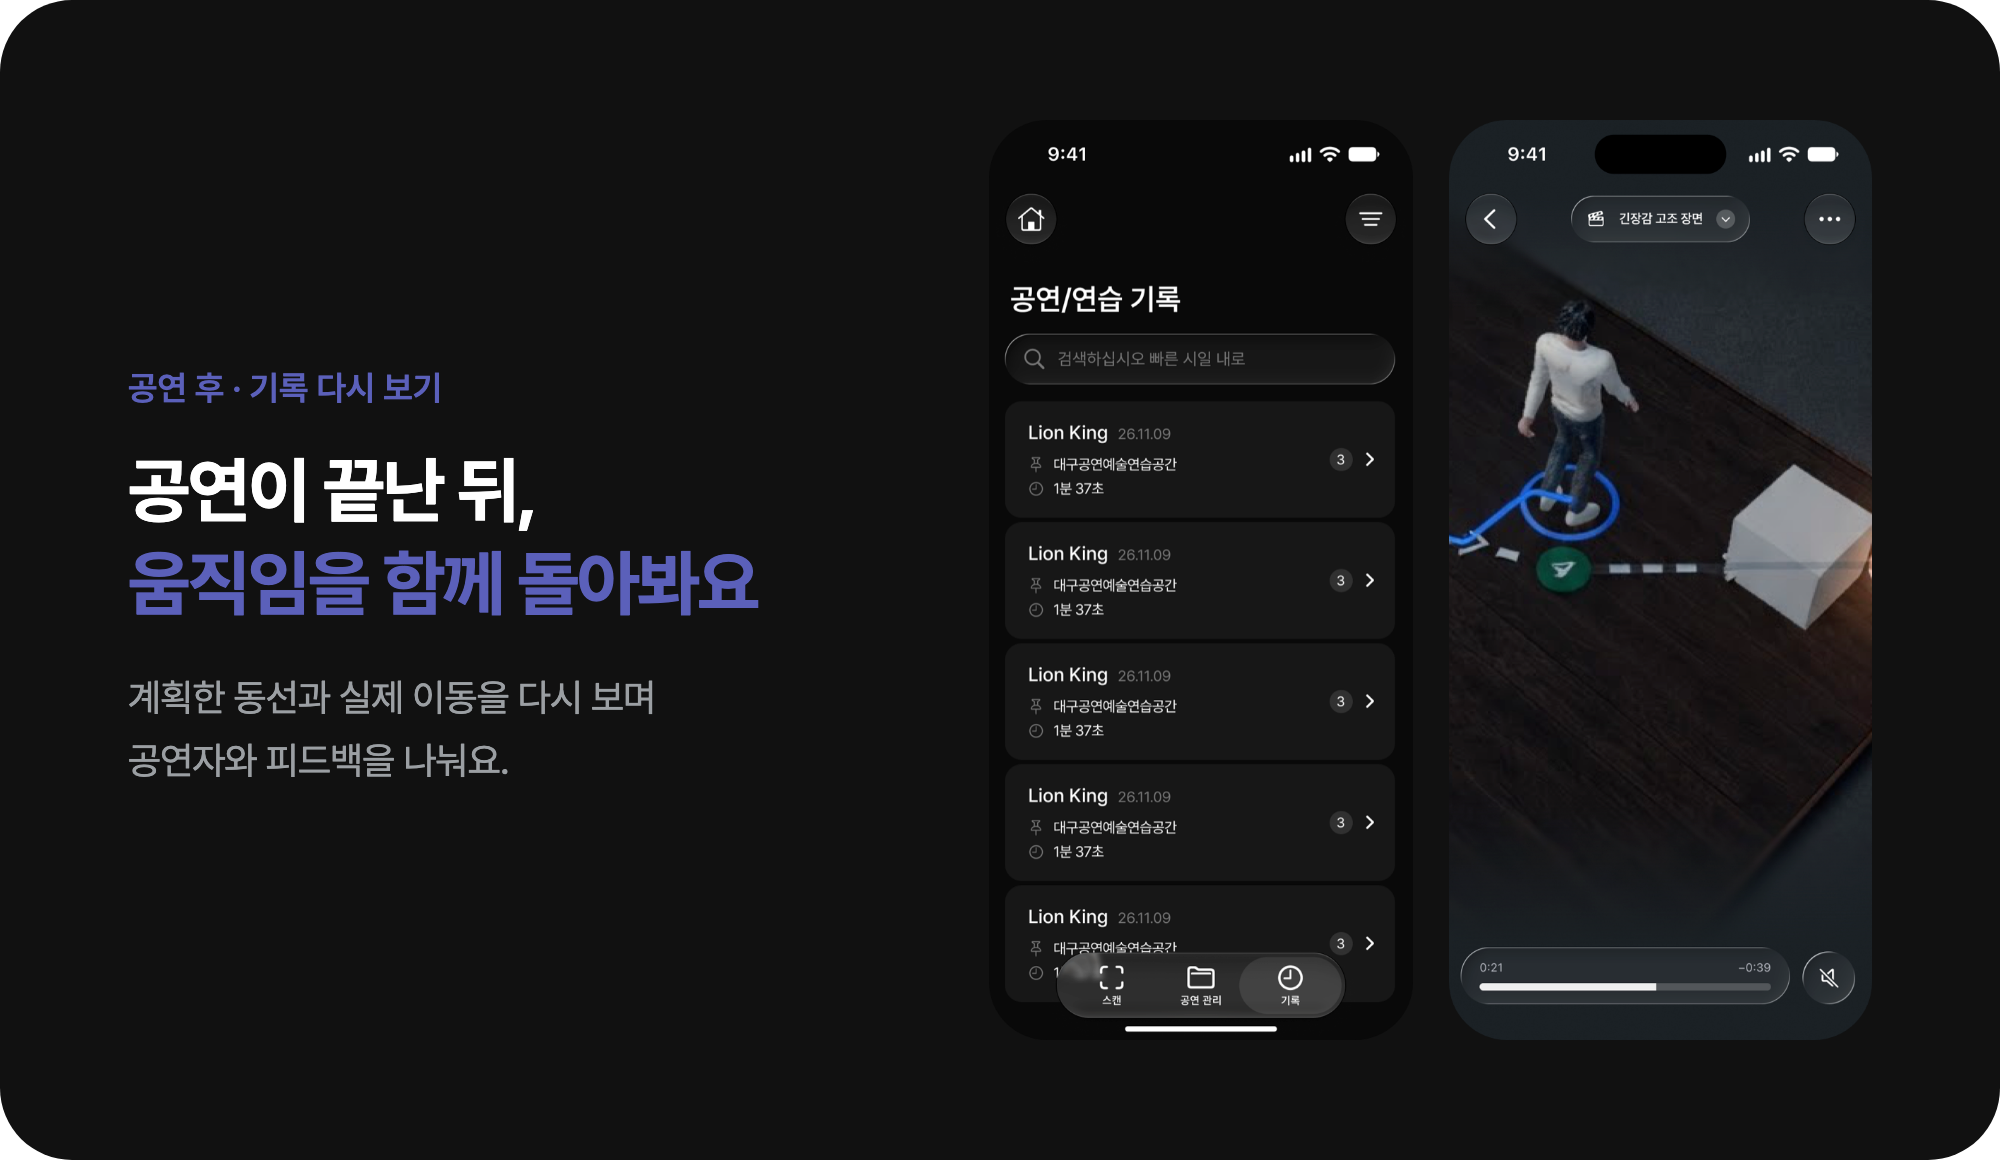
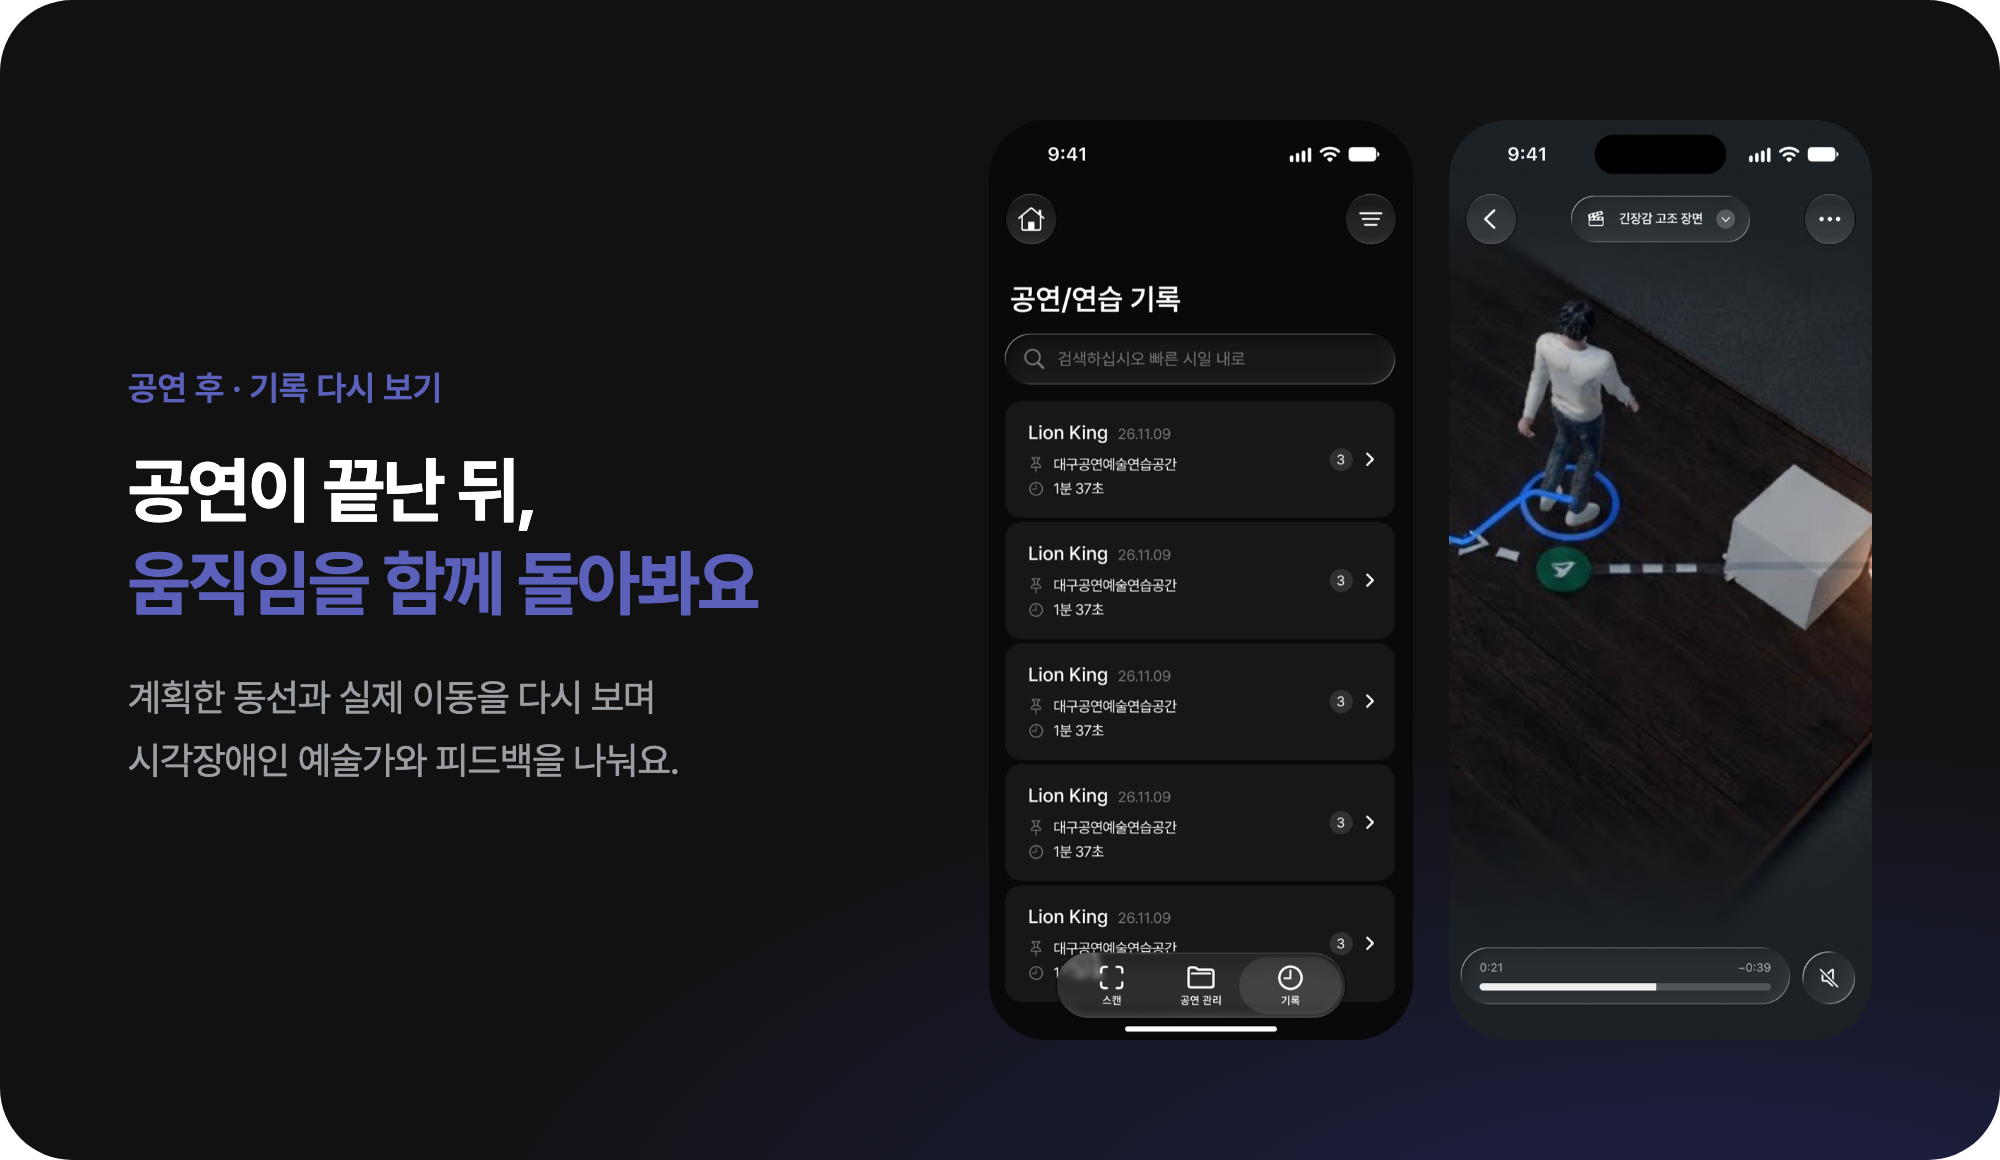
docs: README 사용자 이름을 시각장애인 예술가로 통일하고 모든 카드에 빛을 깐다
README와 카드 이미지에서 같은 사람을 「공연자」 「시각장애 공연자」로 섞어 불렀다. 앱의 역할 선택 화면도 「시각 장애 예술가」라고 부르므로, 사용자가 정한 「시각장애인 예술가」 하나로 맞췄다.

- src/cards.html: 첫 카드 소개 문구, 두 역할 카드 라벨, 음성 · 안내 카드 라벨, 기록 카드 설명을 바꿨다.
- src/cards.html: 첫 카드의 App Store 이미지에는 옛 문구가 그림으로 박혀 있다. 그 자리는 위쪽이 단색(#111)이어서 같은 색 칸으로 덮고 새 문구를 글자로 다시 얹었다. 굵기와 줄 나눔은 원래 이미지를 따랐다.
- src/cards.html: 첫 카드에만 있던 아래쪽 보라 빛을 모든 카드에 깔았다. 기능 카드는 앱 화면이 있는 쪽 아래, 두 역할 · 팀 카드는 가운데 아래에서 퍼진다.
- README.md: 이미지 alt와 폴더 구조 설명의 표기를 같은 이름으로 맞췄다.
- card-*.png 9장을 다시 찍었다.

Changed region(s): [[0.496, 0.8069, 1.0, 1.0], [0.062, 0.6207, 0.341, 0.6828]]

diff --git a/.github/assets/readme/src/cards.html b/.github/assets/readme/src/cards.html
@@ -17,12 +17,15 @@
   @font-face { font-family: P; font-weight: 600; src: url("../../../../Hear-I-am/Resources/Fonts/Pretendard-SemiBold.otf"); }
   @font-face { font-family: P; font-weight: 700; src: url("../../../../Hear-I-am/Resources/Fonts/Pretendard-Bold.otf"); }
   @font-face { font-family: S; font-weight: 200; src: url("../../../../Hear-I-am/Resources/Fonts/SUIT-ExtraLight.otf"); }
-  :root { --bg: #111111; --surface: #1b1c1d; --line: #262829; --text: #ffffff; --sub: #9b9fa3; --accent: #5b60ba; }
+  :root { --bg: #111111; --surface: #1b1c1d; --line: #262829; --text: #ffffff; --sub: #9b9fa3; --accent: #5b60ba; --glow: #20224a; }
   * { box-sizing: border-box; margin: 0; }
   html, body { background: transparent; }
   body { font-family: P, -apple-system, sans-serif; color: var(--text); letter-spacing: -0.02em; }
   section { display: none; width: 1000px; border-radius: 36px; background: var(--bg); overflow: hidden; position: relative; }
   section.on { display: flex; }
+  section { background: radial-gradient(120% 90% at 50% 125%, var(--glow) 0%, var(--bg) 55%); }
+  .feature { background: radial-gradient(120% 90% at 15% 110%, var(--glow) 0%, var(--bg) 55%); }
+  .feature.flip, #hero { background: radial-gradient(120% 90% at 85% 110%, var(--glow) 0%, var(--bg) 55%); }
   .label { font-size: 17px; font-weight: 600; color: var(--accent); letter-spacing: 0; }
   h2 { font-size: 40px; line-height: 1.3; font-weight: 700; letter-spacing: -0.03em; }
   h2 em { font-style: normal; color: var(--accent); }
@@ -31,8 +34,7 @@
   .phone.wide { height: auto; width: 460px; }
 
   /* hero */
-  #hero { height: 620px; padding: 0 34px 0 72px; align-items: center; gap: 30px;
-          background: radial-gradient(120% 90% at 85% 110%, #20224a 0%, var(--bg) 55%); }
+  #hero { height: 620px; padding: 0 34px 0 72px; align-items: center; gap: 30px; }
   #hero .copy { width: 390px; flex: none; display: flex; flex-direction: column; gap: 22px; }
   #hero .icon { width: 96px; height: 96px; }
   #hero .name { font-family: S; font-weight: 200; font-size: 64px; letter-spacing: 0; line-height: 1; }
@@ -40,8 +42,12 @@
   #hero .tag em { font-style: normal; color: var(--accent); }
   #hero .chips { display: flex; gap: 10px; }
   #hero .chip { white-space: nowrap; font-size: 15px; font-weight: 500; color: #d6d9dc; padding: 8px 14px; border-radius: 999px; background: #222426; }
-  #hero .shots { display: flex; border-radius: 26px; overflow: hidden; box-shadow: 0 0 0 1px var(--line); }
+  #hero .shots { position: relative; display: flex; border-radius: 26px; overflow: hidden; box-shadow: 0 0 0 1px var(--line); }
   #hero .shots img { height: 552px; display: block; }
+  /* The App Store images carry their own copy at the top (plain #111 above y=378 of 1311); it is covered and rewritten here so the wording matches. */
+  #hero .over { position: absolute; top: 0; left: 0; right: 0; height: 159px; background: #111111; display: flex; }
+  #hero .over div { flex: 1; padding: 76px 0 0 30px; font-size: 16px; line-height: 27px; color: #b7b7b7; white-space: nowrap; }
+  #hero .over b { color: #fff; font-weight: 700; }
 
   /* roles */
   #roles { height: 400px; padding: 64px 72px; flex-direction: column; gap: 36px; }
@@ -77,18 +83,19 @@
   <div class="copy">
     <img class="icon" src="../icon.png" alt="">
     <div class="name">Hear I am</div>
-    <div class="tag">시각장애 공연자를 위한<br><em>무대 동선 안내 앱</em></div>
+    <div class="tag">시각장애인 예술가를 위한<br><em>무대 동선 안내 앱</em></div>
     <p>음성과 비프음으로<br>방향 · 거리 · 장애물을 알려 줘요.</p>
     <div class="chips"><span class="chip">iOS 17+</span><span class="chip">LiDAR iPhone</span><span class="chip">한국어 · English</span></div>
   </div>
-  <div class="shots"><img src="../hero-1.png" alt=""><img src="../hero-2.png" alt=""></div>
+  <div class="shots"><img src="../hero-1.png" alt=""><img src="../hero-2.png" alt="">
+    <div class="over"><div>시각장애인 예술가가<br>원하는 동선을<br><b>스스로 시도할 수 있도록,</b></div><div>시각장애인 예술가와 조력자<br><b>누구나</b> 사용할 수 있는<br>무대 동선 안내 앱</div></div></div>
 </section>
 
 <section id="roles" data-h="400">
   <h2>두 사람이 <em>함께</em> 써요</h2>
   <div class="pair">
     <div class="role"><span class="label">조력자</span><h3>화면으로 무대를 준비해요</h3><p>공간을 스캔하고, 동선을 저장하고,<br>공연별로 정리해요.</p></div>
-    <div class="role"><span class="label">공연자</span><h3>화면 없이 연습해요</h3><p>「Hear I am」 하고 불러 말로 고르고,<br>소리를 따라 움직여요.</p></div>
+    <div class="role"><span class="label">시각장애인 예술가</span><h3>화면 없이 연습해요</h3><p>「Hear I am」 하고 불러 말로 고르고,<br>소리를 따라 움직여요.</p></div>
   </div>
 </section>
 
@@ -109,17 +116,17 @@
 
 <section id="voice" class="feature tall flip" data-h="580">
   <div class="shot"><img class="phone" src="../home.png" alt=""></div>
-  <div class="copy"><span class="label">공연자 · 무대 사용</span><h2>말로 고르는<br><em>오늘의 공연과 무대</em></h2><p>「Hear I am」 하고 부르면 대화가 열려요.<br>사용할 공연과 무대를 말로 찾고,<br>연습용 또는 실전용을 선택해요.</p></div>
+  <div class="copy"><span class="label">시각장애인 예술가 · 무대 사용</span><h2>말로 고르는<br><em>오늘의 공연과 무대</em></h2><p>「Hear I am」 하고 부르면 대화가 열려요.<br>사용할 공연과 무대를 말로 찾고,<br>연습용 또는 실전용을 선택해요.</p></div>
 </section>
 
 <section id="guide" class="feature tall" data-h="580">
   <div class="shot"><img class="phone" src="../guide.png" alt=""></div>
-  <div class="copy"><span class="label">공연자 · 무대 사용</span><h2>방향부터 도착까지,<br><em>소리로 안내받아요</em></h2><p>허리에 찬 iPhone이 현재 위치와 방향에 맞춰<br>음성과 비프음으로 다음 지점을 안내해요.</p></div>
+  <div class="copy"><span class="label">시각장애인 예술가 · 무대 사용</span><h2>방향부터 도착까지,<br><em>소리로 안내받아요</em></h2><p>허리에 찬 iPhone이 현재 위치와 방향에 맞춰<br>음성과 비프음으로 다음 지점을 안내해요.</p></div>
 </section>
 
 <section id="records" class="feature tall flip" data-h="580">
   <div class="shot"><img class="phone" src="../records.png" alt=""><img class="phone" src="../replay.png" alt=""></div>
-  <div class="copy"><span class="label">공연 후 · 기록 다시 보기</span><h2>공연이 끝난 뒤,<br><em>움직임을 함께 돌아봐요</em></h2><p>계획한 동선과 실제 이동을 다시 보며<br>공연자와 피드백을 나눠요.</p></div>
+  <div class="copy"><span class="label">공연 후 · 기록 다시 보기</span><h2>공연이 끝난 뒤,<br><em>움직임을 함께 돌아봐요</em></h2><p>계획한 동선과 실제 이동을 다시 보며<br>시각장애인 예술가와 피드백을 나눠요.</p></div>
 </section>
 
 <section id="team" data-h="470">

diff --git a/README.md b/README.md
@@ -1,6 +1,6 @@
-<img src=".github/assets/readme/card-hero.png" width="100%" alt="Hear I am — 시각장애 공연자를 위한 무대 동선 안내 앱. 음성과 비프음으로 방향 · 거리 · 장애물을 알려 준다. iOS 17 이상 · LiDAR iPhone · 한국어와 영어">
+<img src=".github/assets/readme/card-hero.png" width="100%" alt="Hear I am — 시각장애인 예술가를 위한 무대 동선 안내 앱. 음성과 비프음으로 방향 · 거리 · 장애물을 알려 준다. iOS 17 이상 · LiDAR iPhone · 한국어와 영어">
 
-<img src=".github/assets/readme/card-roles.png" width="100%" alt="두 사람이 함께 쓴다. 조력자는 화면으로 무대를 준비하고(공간 스캔 · 동선 저장 · 공연별 정리), 공연자는 화면 없이 「Hear I am」 하고 불러 말로 고르고 소리를 따라 움직인다">
+<img src=".github/assets/readme/card-roles.png" width="100%" alt="두 사람이 함께 쓴다. 조력자는 화면으로 무대를 준비하고(공간 스캔 · 동선 저장 · 공연별 정리), 시각장애인 예술가는 화면 없이 「Hear I am」 하고 불러 말로 고르고 소리를 따라 움직인다">
 
 <img src=".github/assets/readme/card-scan.png" width="100%" alt="조력자 · 무대 준비 — 공연할 공간을 미리 담아두세요. 무대를 스캔하고 경계 · 기물 · 확인점을 설정한다">
 
@@ -8,9 +8,9 @@
 
 <img src=".github/assets/readme/card-manage.png" width="100%" alt="조력자 · 공연 관리 — 공연마다 다른 무대, 체계적으로 관리해요. 공연 · 공연장 · 장면별로 무대와 동선을 정리한다">
 
-<img src=".github/assets/readme/card-voice.png" width="100%" alt="공연자 · 무대 사용 — 말로 고르는 오늘의 공연과 무대. 「Hear I am」 하고 불러 공연과 무대, 연습용 또는 실전용을 말로 고른다">
+<img src=".github/assets/readme/card-voice.png" width="100%" alt="시각장애인 예술가 · 무대 사용 — 말로 고르는 오늘의 공연과 무대. 「Hear I am」 하고 불러 공연과 무대, 연습용 또는 실전용을 말로 고른다">
 
-<img src=".github/assets/readme/card-guide.png" width="100%" alt="공연자 · 무대 사용 — 방향부터 도착까지, 소리로 안내받아요. 허리에 찬 iPhone이 음성과 비프음으로 다음 지점을 안내한다">
+<img src=".github/assets/readme/card-guide.png" width="100%" alt="시각장애인 예술가 · 무대 사용 — 방향부터 도착까지, 소리로 안내받아요. 허리에 찬 iPhone이 음성과 비프음으로 다음 지점을 안내한다">
 
 <details>
 <summary><b>안내 중에 들리는 소리</b></summary>
@@ -90,7 +90,7 @@ Hear-I-am/
 ├── Core/             # 여러 기능이 함께 쓰는 것: AR 세션 · 오디오 · 로그 · 저장 · 디자인 시스템
 ├── Features/         # 기능별 Model / View / ViewModel
 │   ├── Onboarding                         # 시작 로고와 역할 선택
-│   ├── Home · Voice                       # 공연자 홈과 음성 대화
+│   ├── Home · Voice                       # 시각장애인 예술가 홈과 음성 대화
 │   ├── Preparation · Guidance             # 무대 준비(스캔)와 안내
 │   ├── Performances · Places · Planning   # 공연 관리 · 공간 폴더 · 사전 동선
 │   ├── Records · StagePreview             # 완료 기록 · 공간 다시보기
